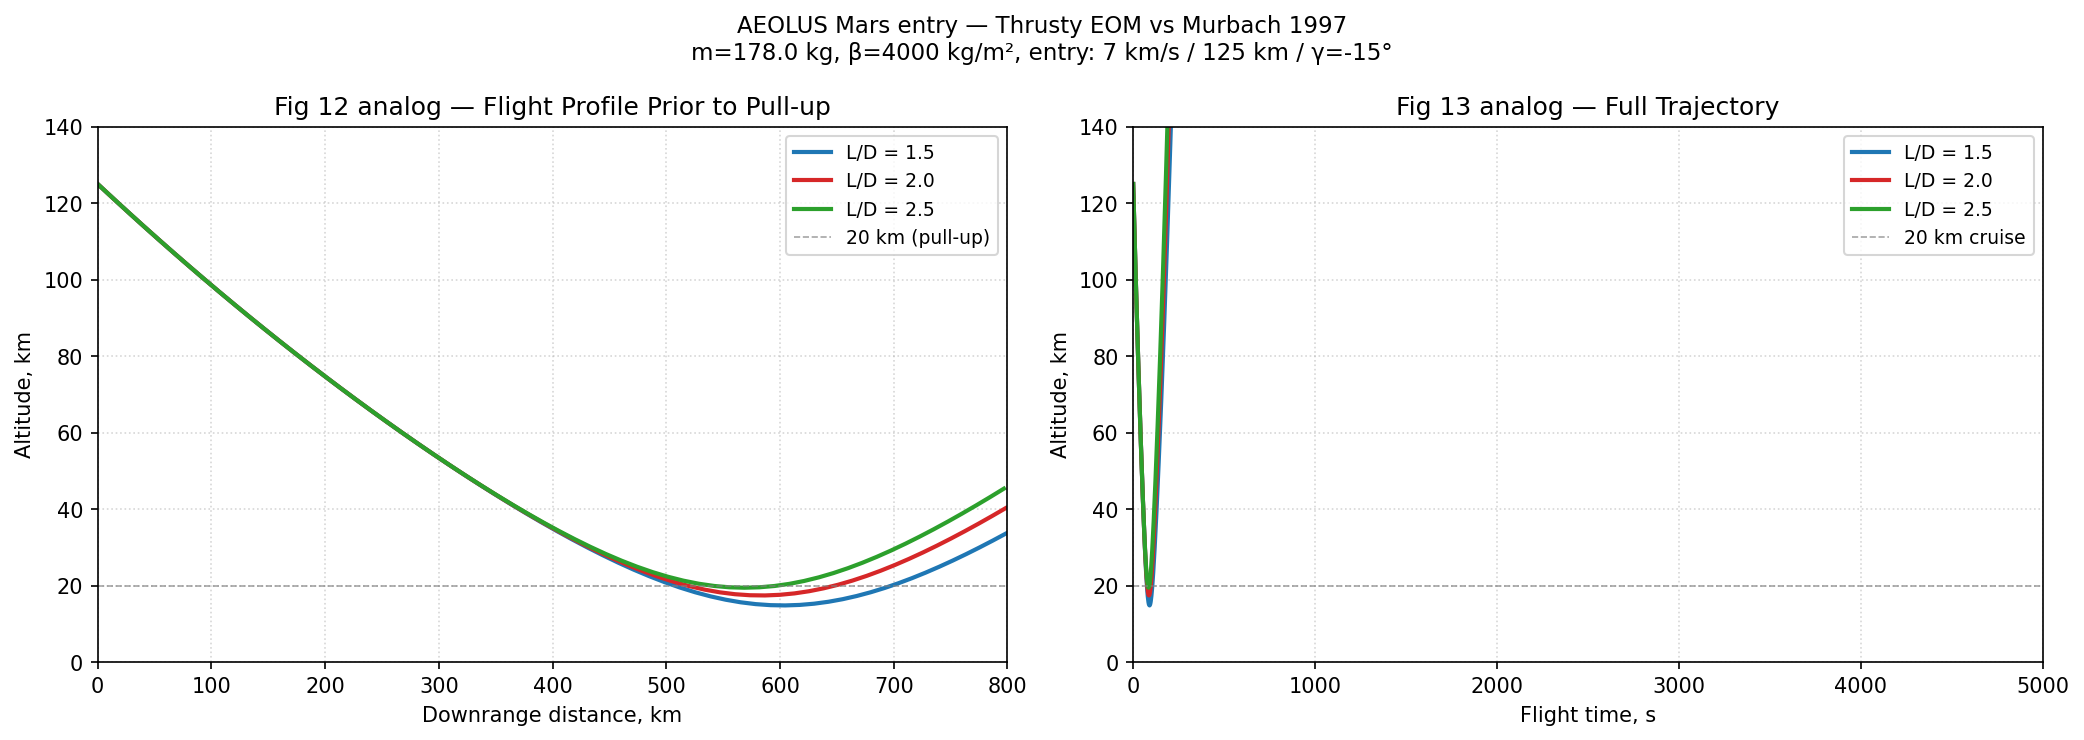
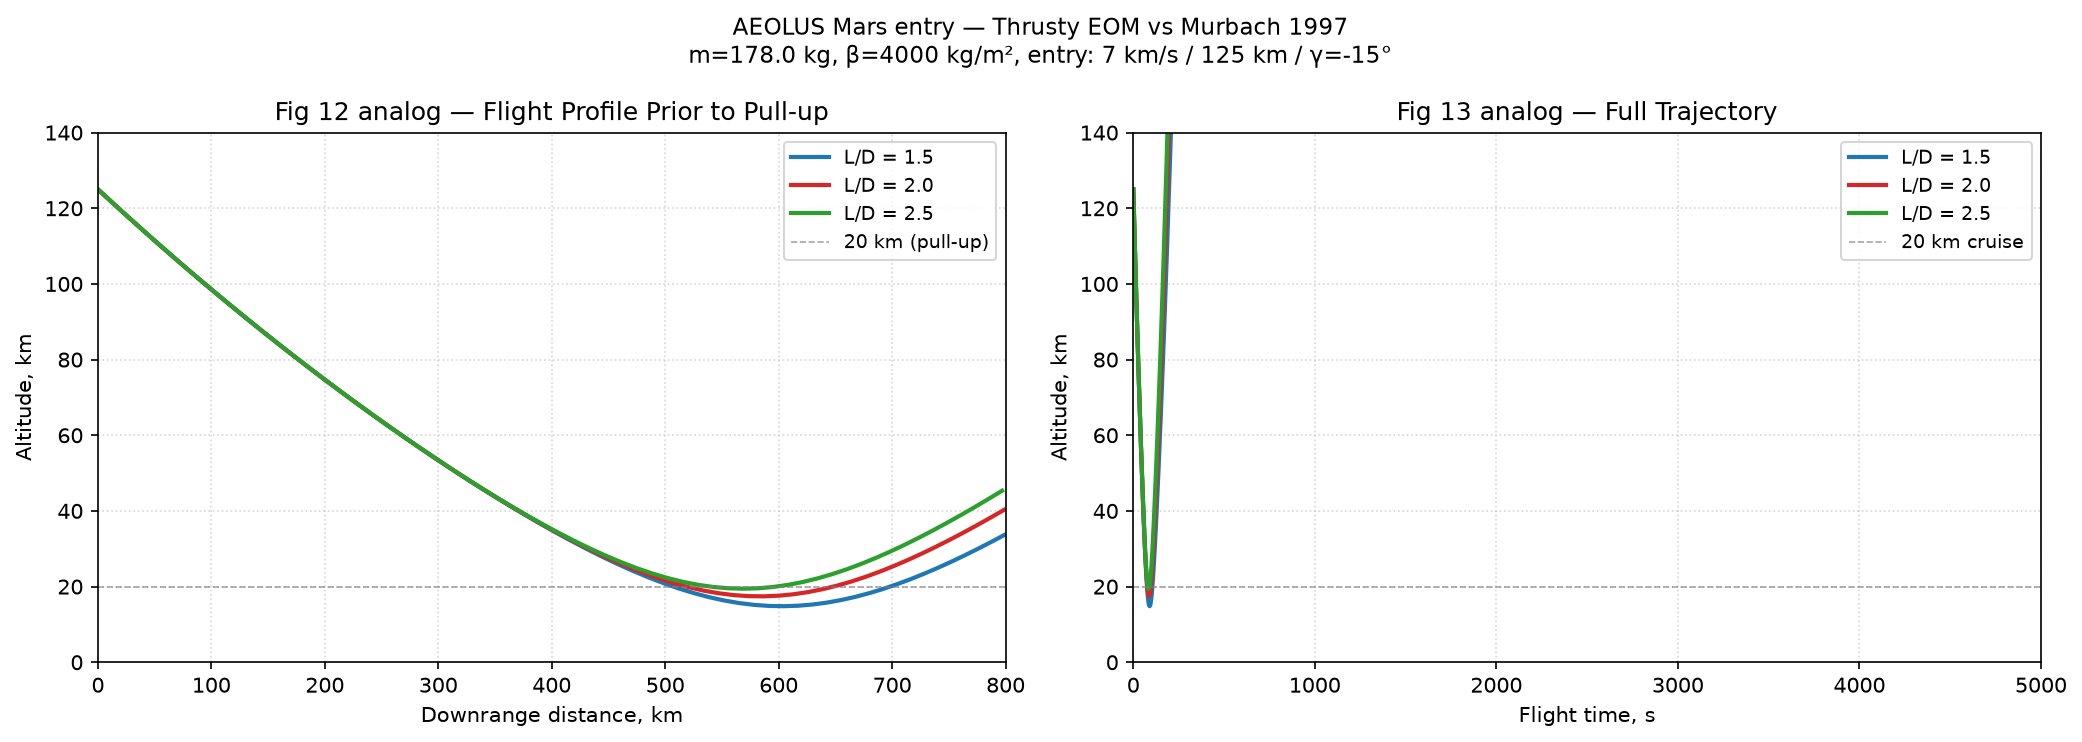
Derive nose-tip radius from RV shape+diameter when unset (heating)
The nose shape the user enters never reached the heating calc: it drove
only drag, while Sutton-Graves used a separate nose_radius_m that
defaulted to a flat 5 cm. Make the entered geometry drive heating, with
the explicit value still authoritative.

- nose_tip_radius(shape, diameter): screening default R_n ~ 0.10*R_body
  for a sharp cone, scaled up for blunter profiles (von Karman/LV-Haack)
  via a modest bluntness table, clamped to [5 mm, R_body]. Transparent
  heuristic, not a geometric tip curvature: the ideal profiles are all
  geometrically sharp at the tip and real bluntness is a design choice
  the outer shape doesn't fix (every library RV is a "cone" yet spans
  1-5 cm tips), so an explicit nose_radius_m overrides it.
- RVParams.nose_radius_m default 0.05 -> 0.0 (= auto), matching the
  codebase's 0=auto convention; effective_nose_radius_m() returns the
  explicit value when >0 else the derived default. rv_from_dict defaults
  to 0.0, so explicit library radii (HTV-2 1 cm, C-HGB 2 cm, AHW 5 cm)
  are preserved while absent ones now derive from geometry.
- trajectory.py uses the accessor; the editor shows the effective radius
  (never a misleading 0.000). Schemas and METHODS 13.1 updated.

Verified: library explicit radii preserved; absent ones derive sane
values (cone D=0.5 -> 2.5 cm); explicit override and round-trip correct;
full test suite + smoke tests pass.

Claude-Session: https://claude.ai/code/session_01BAmco7Mc9kHrQ7ueHuHumV

diff --git a/missile_models.py b/missile_models.py
@@ -233,10 +233,12 @@ class RVParams:
     shape:      str   = ""    # key from NOSE_SHAPES; "" → Forden Cd fallback
     diameter_m: float = 0.0
     length_m:   float = 0.0
-    # Nose-tip radius of curvature (m), used for Sutton-Graves stagnation
-    # heating q̇ ∝ 1/√R_N.  Default 0.05 m (5 cm) matches the conventional
-    # placeholder used in preliminary heating analysis.
-    nose_radius_m: float = 0.05
+    # Nose-tip (stagnation) radius of curvature (m), used for Sutton-Graves
+    # stagnation heating q̇ ∝ 1/√R_N.  0.0 = AUTO: derive a screening default
+    # from the nose shape + base diameter (see nose_tip_radius / the
+    # effective_nose_radius_m() accessor).  A positive value is authoritative
+    # and overrides the derived default.
+    nose_radius_m: float = 0.0
 
     # Separation mode — does the terminal vehicle separate from the missile
     # body, or IS the missile body the terminal vehicle?
@@ -390,6 +392,14 @@ class RVParams:
     # numbers only, no pass/fail verdict.
     tps_material:           str   = ""
 
+    def effective_nose_radius_m(self) -> float:
+        """Stagnation radius (m) for Sutton-Graves heating: the explicit
+        nose_radius_m when set (>0), otherwise the shape/diameter screening
+        default from nose_tip_radius()."""
+        if self.nose_radius_m and self.nose_radius_m > 0.0:
+            return float(self.nose_radius_m)
+        return nose_tip_radius(self.shape, self.diameter_m)
+
 
 def rv_to_dict(rv: RVParams) -> dict:
     return {
@@ -439,7 +449,7 @@ def rv_from_dict(d: dict) -> RVParams:
         shape=str(d.get('shape', '')),
         diameter_m=float(d.get('diameter_m', 0.0)),
         length_m=float(d.get('length_m', 0.0)),
-        nose_radius_m=float(d.get('nose_radius_m', 0.05)),
+        nose_radius_m=float(d.get('nose_radius_m', 0.0)),   # 0 = auto (shape)
         glider_enabled=bool(d.get('glider_enabled', False)),
         glider_LD=float(d.get('glider_LD', 0.0)),
         glider_guidance=_g,
@@ -790,6 +800,42 @@ def _nose_profile(shape: str, ld: float, n: int = 200):
 
     rs[0] = 0.0
     return xs, rs
+
+
+# Shape bluntness multipliers for the screening nose-tip-radius default,
+# relative to a sharp cone (=1.0), ordered by how rounded each profile runs
+# near the tip (cone sharpest → Haack series bluntest; a blunt cylinder has a
+# near-hemispherical cap).  These are deliberately MODEST, transparent factors,
+# NOT a geometric tip curvature: the idealised nose profiles are all
+# geometrically sharp at the very tip (R→0), and real nose-tip bluntness is a
+# design choice the outer shape does not fix — every RV in rv_library/ is a
+# "cone" yet spans 1–5 cm tips.  An explicit nose_radius_m therefore overrides
+# this default (see RVParams.effective_nose_radius_m).
+_NOSE_BLUNTNESS = {
+    'cone':           1.0,
+    'tangent_ogive':  1.25,
+    'parabola':       1.25,
+    'von_karman':     1.5,
+    'lv_haack':       1.75,
+    'blunt_cylinder': 3.0,
+}
+
+
+def nose_tip_radius(shape: str, diameter_m: float) -> float:
+    """Screening default for the Sutton-Graves stagnation radius R_n (m) when an
+    RV does not set nose_radius_m explicitly.
+
+    R_n ≈ 0.10·R_body for a sharp cone — mid the 0.1–0.2 R_n/R_base range
+    typical of blunted re-entry bodies — scaled up for blunter profiles via
+    _NOSE_BLUNTNESS, clamped to [5 mm, R_body].  This is a transparent
+    bluntness heuristic, not a geometric derivation; an explicit nose_radius_m
+    is authoritative and overrides it.
+    """
+    R_body = 0.5 * max(0.0, float(diameter_m or 0.0))
+    if R_body <= 0.0:
+        return 0.05                       # legacy 5 cm fallback (no diameter)
+    f = _NOSE_BLUNTNESS.get(_SHAPE_ALIAS.get(shape, shape), 1.0)
+    return float(min(max(0.10 * R_body * f, 0.005), R_body))
 
 
 def _s_wet_ratio(shape: str, ld: float) -> float:

diff --git a/trajectory.py b/trajectory.py
@@ -2734,10 +2734,13 @@ def integrate_trajectory(params: MissileParams,
                         if not _is_ste:
                             break  # only emit the primary pull-up/glide pair
 
-            # Peak heating: Sutton-Graves stagnation-point rate using the
-            # RV's nose-tip radius of curvature (default 0.05 m).  Peak time
+            # Peak heating: Sutton-Graves stagnation-point rate using the RV's
+            # nose-tip radius — explicit nose_radius_m, else a shape/diameter
+            # screening default (RVParams.effective_nose_radius_m).  Peak time
             # is independent of RN; the reported MW/m² scales as 1/√RN.
-            _RN = float(getattr(_erv_ms, 'nose_radius_m', 0.05) or 0.05)
+            _RN = (_erv_ms.effective_nose_radius_m()
+                   if hasattr(_erv_ms, 'effective_nose_radius_m')
+                   else float(getattr(_erv_ms, 'nose_radius_m', 0.05) or 0.05))
             _glide_a = alts[_re_idx:]
             # Sutton-Graves uses airspeed (ECEF), not inertial speed,
             # because the atmosphere co-rotates with Earth.

diff --git a/thrusty.py b/thrusty.py
@@ -2214,9 +2214,12 @@ class RVEditorDialog(tk.Toplevel):
         self._len_entry = _entry(6, self._len_var, width=10)
 
         # Nose-tip radius — drives Sutton-Graves stagnation heating (∝ 1/√RN).
+        # Shown as the EFFECTIVE radius: an explicit value, else the
+        # shape/diameter screening default (so the field is never a misleading
+        # 0.000 for an auto RV).
         _lbl(7, "Nose radius (m):")
         self._nose_var = tk.StringVar(
-            value=f"{rv.nose_radius_m:.3f}" if rv else "0.050")
+            value=f"{rv.effective_nose_radius_m():.3f}" if rv else "0.050")
         self._nose_entry = _entry(7, self._nose_var, width=10)
 
         # Sync the read-only state of mass/diameter/length to separation mode

diff --git a/METHODS.md b/METHODS.md
@@ -2258,7 +2258,7 @@ defaults:
 | `diameter_m` | 0.5 | Reference diameter |
 | `length_m` | (optional) | Used for slender-body checks |
 | `shape` | `"cone"` | Nose-shape selector |
-| `nose_radius_m` | 0.05 | Used for stagnation heating (Section 13.1) |
+| `nose_radius_m` | 0.0 = auto | Stagnation radius for heating (Section 13.1); 0 ⇒ derived from nose shape + diameter, a positive value overrides |
 | `emissivity` | 0.85 | Surface emissivity for T_eq calculation |
 | `beta_kg_m2` | 10000 | β_L — equilibrium-glide ballistic coefficient |
 | `glider_beta_entry_kg_m2` | 0.0 | β_S — Acton direct-re-entry β; 0 disables Acton mode |
@@ -2342,24 +2342,33 @@ Three implementation conventions:
    matters at HGV velocities of 3–6 km/s. The relevant comment is at
    `trajectory.py`.
 
-2. **Per-RV nose-tip radius.** `R_N` is read from the active RV's
-   `nose_radius_m` field (`trajectory.py`), making the stagnation-
-   point formula geometry-aware. The default in `RVParams` is 0.05 m
-   (5 cm; `missile_models.py`). The shipped library overrides this
-   for `C-HGB.rv.json` (2 cm, matching the sharper conical glide body)
-   and otherwise inherits the 5 cm default. Two RVs at the same speed
-   and density therefore see different stagnation fluxes:
-   `q̇ ∝ 1/√R_N`, so the C-HGB nose sees about 1.58× the stagnation
-   flux of an HGB-class nose. The peak-heating *time* is independent
-   of `R_N`; only the peak *magnitude* changes.
+2. **Per-RV nose-tip radius.** `R_N` is the active RV's effective
+   stagnation radius (`RVParams.effective_nose_radius_m`, used in
+   `trajectory.py`), making the stagnation-point formula geometry-aware.
+   An explicit `nose_radius_m` is authoritative; when it is 0/absent the
+   value is a screening default derived from the nose shape and base
+   diameter (`nose_tip_radius`, `missile_models.py`): `R_N ≈ 0.10·R_body`
+   for a sharp cone, scaled up for blunter profiles (von Kármán, LV-Haack),
+   clamped to [5 mm, R_body]. This is a transparent bluntness heuristic,
+   not a geometric tip-curvature — the idealised profiles are all
+   geometrically sharp at the tip, and real bluntness is a design choice
+   the outer shape does not fix (every shipped library RV is a `cone` yet
+   spans 1–5 cm tips). The shipped library sets explicit radii where known
+   (HTV-2 1 cm, C-HGB 2 cm, AHW 5 cm). Two RVs at the same speed and
+   density see different stagnation fluxes: `q̇ ∝ 1/√R_N`, so a 1 cm nose
+   sees about 2.2× the flux of a 5 cm nose. The peak-heating *time* is
+   independent of `R_N`; only the peak *magnitude* changes.
 
-3. **Glide phase only.** Heating is computed and reported only during
-   the post-pierce glide phase (after the 100 km descent crossing of
-   Section 12.1). The boost and ascent heating is not separately
-   reported because for typical operational vehicles the boost phase
-   stagnation flux is much smaller than the glide-phase peak — and
-   because the booster nose is not the surface that matters for
-   payload survival.
+3. **Re-entry/descent phase.** Heating is computed for any re-entering
+   terminal vehicle — a ballistic RV as well as a glider — over the
+   descent arc after the 100 km crossing (Section 12.1; for sub-100 km
+   profiles, after apogee). A steep ballistic RV is the high-flux regime
+   the survivability FOM most needs to score, so it is no longer excluded.
+   Glide-specific milestones (pull-up / glide-start / skips / terminal
+   dive) remain gated on a lifting vehicle. Boost and ascent heating is
+   not separately reported because for typical operational vehicles the
+   boost-phase stagnation flux is much smaller than the descent peak, and
+   the booster nose is not the surface that matters for payload survival.
 
 ### 13.2 Radiative-equilibrium wall temperature
 
